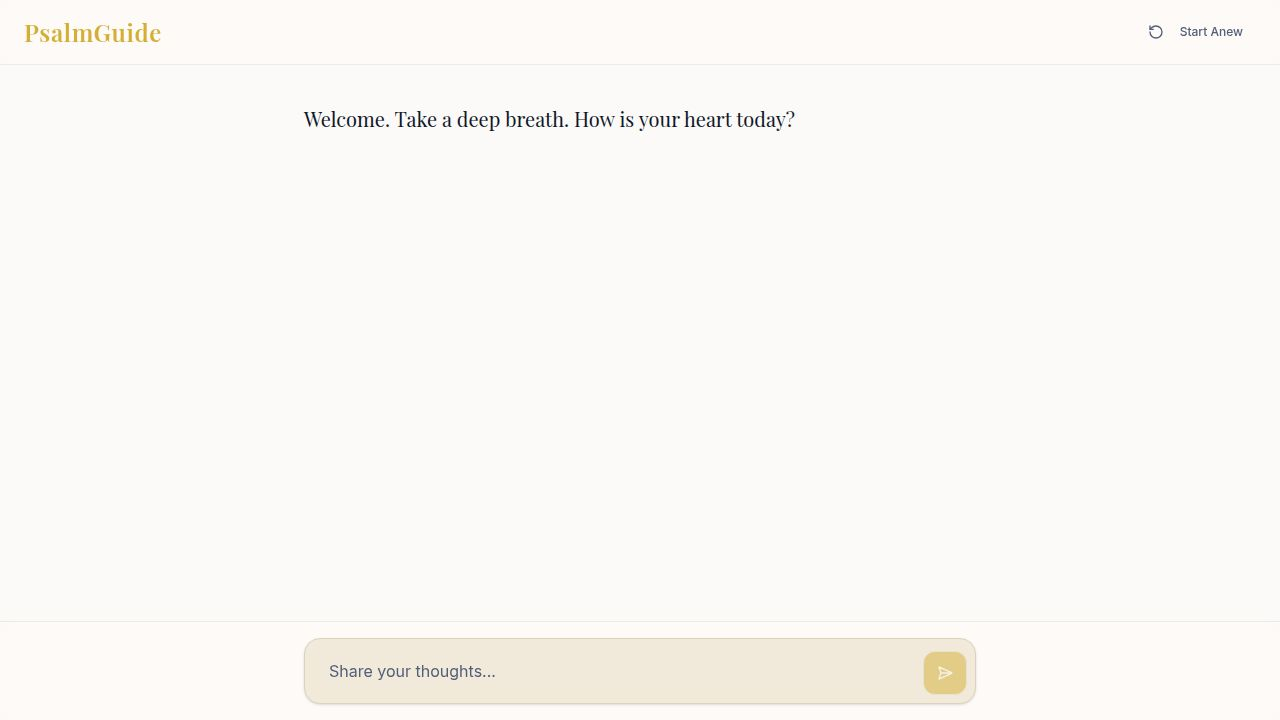
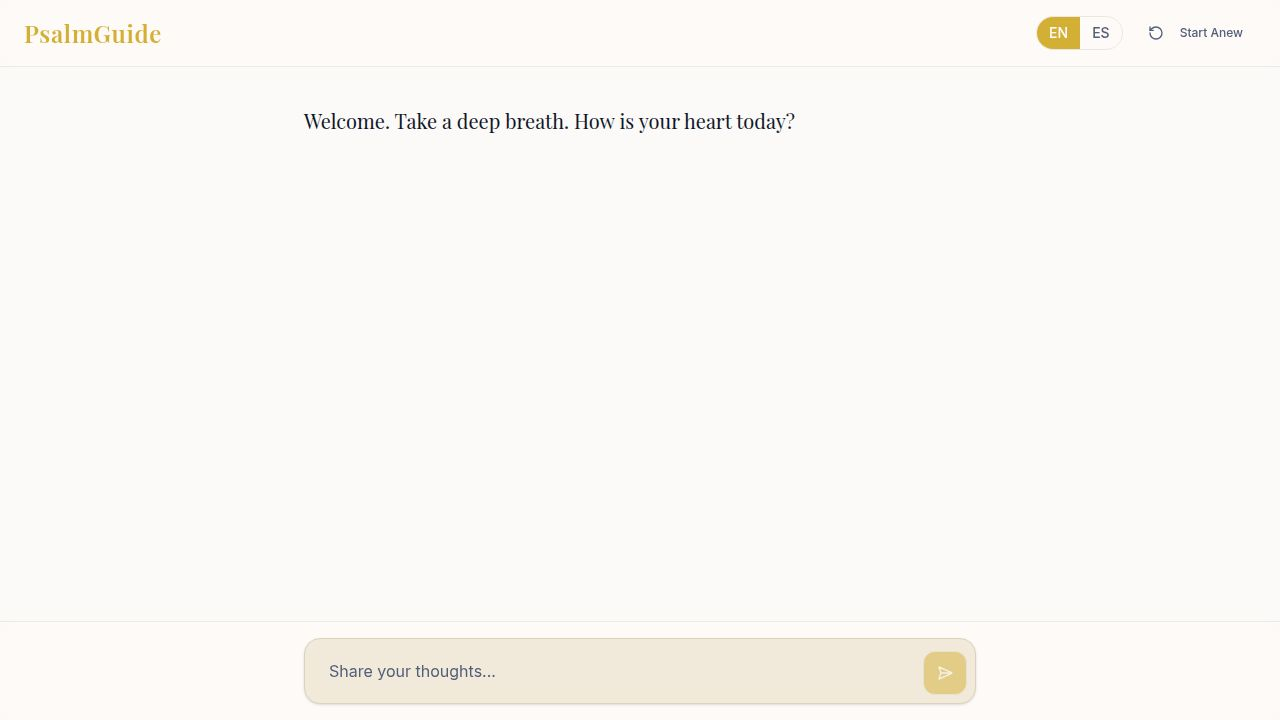
Add dual language support for English and Spanish user interactions
Implement multi-language functionality by adding a language toggle to the UI, updating the backend to process messages in the selected language, and internationalizing UI text.

Replit-Commit-Author: Agent
Replit-Commit-Session-Id: 4e0a4498-59c6-43b8-b3ab-fb0c0b98a171
Replit-Commit-Checkpoint-Type: full_checkpoint
Replit-Commit-Event-Id: 49504ced-565d-428a-ba66-e4aff9c45ece
Replit-Commit-Screenshot-Url: https://storage.googleapis.com/screenshot-production-us-central1/9915b1cb-ba45-48bd-b134-93c3257d5e10/4e0a4498-59c6-43b8-b3ab-fb0c0b98a171/VRG5NSZ
Replit-Helium-Checkpoint-Created: true

diff --git a/artifacts/psalm-chatbot/src/pages/chat.tsx b/artifacts/psalm-chatbot/src/pages/chat.tsx
@@ -1,9 +1,22 @@
-import React from "react";
+import { useState, useRef, useEffect } from "react";
 import { SendHorizontal, RotateCcw } from "lucide-react";
-import { useChatSession } from "@/hooks/use-chat-session";
+import { useChatSession, type Language } from "@/hooks/use-chat-session";
 import { Button } from "@/components/ui/button";
 import { ScrollArea } from "@/components/ui/scroll-area";
 import { PsalmCard } from "@/components/psalm-card";
+
+const UI = {
+  en: {
+    startAnew: "Start Anew",
+    placeholder: "Share your thoughts...",
+    typing: "...",
+  },
+  es: {
+    startAnew: "Empezar de nuevo",
+    placeholder: "Comparte tus pensamientos...",
+    typing: "...",
+  },
+} as const;
 
 function parseMessage(content: string) {
   const parts = content.split('---PSALM_CARD---');
@@ -14,16 +27,16 @@ function parseMessage(content: string) {
 
   const refMatch = cardText.match(/Reference:\s*(.*)/i);
   const verseMatch = cardText.match(/Verse:\s*"?([^"]*)"?/i);
-  const refTextMatch = cardText.match(/Reflection:\s*(.*)/is);
+  const refTextMatch = cardText.match(/Reflection:\s*([\s\S]*)/i);
 
   if (refMatch && verseMatch && refTextMatch) {
     return {
       text,
       psalm: {
-        reference: refMatch[1],
-        verse: verseMatch[1],
-        reflection: refTextMatch[1].trim()
-      }
+        reference: refMatch[1].trim(),
+        verse: verseMatch[1].trim(),
+        reflection: refTextMatch[1].trim(),
+      },
     };
   }
 
@@ -31,11 +44,12 @@ function parseMessage(content: string) {
 }
 
 export default function Chat() {
-  const { messages, sendMessage, isStreaming, initSession } = useChatSession();
-  const [input, setInput] = React.useState("");
-  const scrollRef = React.useRef<HTMLDivElement>(null);
+  const [language, setLanguage] = useState<Language>('en');
+  const { messages, sendMessage, isStreaming, initSession } = useChatSession(language);
+  const [input, setInput] = useState("");
+  const scrollRef = useRef<HTMLDivElement>(null);
 
-  React.useEffect(() => {
+  useEffect(() => {
     if (scrollRef.current) {
       scrollRef.current.scrollTop = scrollRef.current.scrollHeight;
     }
@@ -48,20 +62,59 @@ export default function Chat() {
     setInput("");
   };
 
+  const handleLanguageSwitch = (lang: Language) => {
+    if (lang === language) return;
+    setLanguage(lang);
+    initSession(lang);
+  };
+
+  const ui = UI[language];
+
   return (
     <div className="flex flex-col h-[100dvh] bg-background">
       <header className="flex items-center justify-between px-6 py-4 border-b border-border/50 bg-background/80 backdrop-blur-sm z-10 sticky top-0">
         <h1 className="font-serif text-2xl font-semibold text-primary tracking-wide">PsalmGuide</h1>
-        <Button 
-          variant="ghost" 
-          size="sm" 
-          onClick={initSession}
-          className="text-muted-foreground hover:text-foreground transition-colors"
-          data-testid="button-new-session"
-        >
-          <RotateCcw className="w-4 h-4 mr-2" />
-          Start Anew
-        </Button>
+
+        <div className="flex items-center gap-3">
+          <div
+            className="flex items-center rounded-full border border-border/60 overflow-hidden text-sm font-medium"
+            data-testid="language-toggle"
+          >
+            <button
+              onClick={() => handleLanguageSwitch('en')}
+              className={`px-3 py-1.5 transition-colors ${
+                language === 'en'
+                  ? 'bg-primary text-primary-foreground'
+                  : 'text-muted-foreground hover:text-foreground hover:bg-muted/50'
+              }`}
+              data-testid="button-lang-en"
+            >
+              EN
+            </button>
+            <button
+              onClick={() => handleLanguageSwitch('es')}
+              className={`px-3 py-1.5 transition-colors ${
+                language === 'es'
+                  ? 'bg-primary text-primary-foreground'
+                  : 'text-muted-foreground hover:text-foreground hover:bg-muted/50'
+              }`}
+              data-testid="button-lang-es"
+            >
+              ES
+            </button>
+          </div>
+
+          <Button
+            variant="ghost"
+            size="sm"
+            onClick={() => initSession(language)}
+            className="text-muted-foreground hover:text-foreground transition-colors"
+            data-testid="button-new-session"
+          >
+            <RotateCcw className="w-4 h-4 mr-2" />
+            {ui.startAnew}
+          </Button>
+        </div>
       </header>
 
       <ScrollArea className="flex-1 px-4 py-8" ref={scrollRef}>
@@ -72,16 +125,17 @@ export default function Chat() {
 
             return (
               <div key={msg.id} className={`flex flex-col ${isUser ? "items-end" : "items-start"}`}>
-                <div 
+                <div
                   className={`max-w-[85%] text-lg leading-relaxed ${
-                    isUser 
-                      ? "bg-secondary text-secondary-foreground px-6 py-4 rounded-2xl rounded-br-sm shadow-sm" 
+                    isUser
+                      ? "bg-secondary text-secondary-foreground px-6 py-4 rounded-2xl rounded-br-sm shadow-sm"
                       : "text-foreground py-2"
                   }`}
+                  data-testid={isUser ? `bubble-user-${msg.id}` : `bubble-assistant-${msg.id}`}
                 >
                   <p className={isUser ? "font-sans" : "font-serif text-xl"}>{text}</p>
                 </div>
-                
+
                 {psalm && (
                   <div className="mt-8 w-full animate-in fade-in slide-in-from-bottom-4 duration-1000">
                     <PsalmCard {...psalm} />
@@ -90,10 +144,11 @@ export default function Chat() {
               </div>
             );
           })}
+
           {isStreaming && messages[messages.length - 1]?.role === "user" && (
             <div className="flex items-start">
               <div className="text-foreground py-2 font-serif text-xl animate-pulse">
-                ...
+                {ui.typing}
               </div>
             </div>
           )}
@@ -102,25 +157,26 @@ export default function Chat() {
 
       <footer className="p-4 bg-background/80 backdrop-blur-sm border-t border-border/50">
         <div className="max-w-2xl mx-auto">
-          <form 
+          <form
             onSubmit={handleSubmit}
             className="flex items-end gap-2 bg-card rounded-2xl p-2 shadow-sm border border-card-border transition-all focus-within:ring-1 focus-within:ring-primary/30"
           >
             <textarea
               value={input}
               onChange={(e) => setInput(e.target.value)}
-              placeholder="Share your thoughts..."
-              className="flex-1 max-h-32 min-h-[44px] bg-transparent border-none resize-none focus:ring-0 px-4 py-3 font-sans text-foreground placeholder:text-muted-foreground"
+              placeholder={ui.placeholder}
+              className="flex-1 max-h-32 min-h-[44px] bg-transparent border-none resize-none focus:ring-0 px-4 py-3 font-sans text-foreground placeholder:text-muted-foreground outline-none"
               rows={1}
+              data-testid="input-message"
               onKeyDown={(e) => {
                 if (e.key === 'Enter' && !e.shiftKey) {
                   e.preventDefault();
-                  handleSubmit(e);
+                  handleSubmit(e as unknown as React.FormEvent);
                 }
               }}
             />
-            <Button 
-              type="submit" 
+            <Button
+              type="submit"
               size="icon"
               disabled={!input.trim() || isStreaming}
               className="rounded-xl h-11 w-11 shrink-0 bg-primary hover:bg-primary/90 text-primary-foreground"

diff --git a/artifacts/psalm-chatbot/src/hooks/use-chat-session.ts b/artifacts/psalm-chatbot/src/hooks/use-chat-session.ts
@@ -1,6 +1,8 @@
 import { useState, useCallback, useEffect, useRef } from 'react';
 import { useCreateOpenaiConversation } from '@workspace/api-client-react';
 
+export type Language = 'en' | 'es';
+
 export type Message = {
   id: string;
   role: 'user' | 'assistant';
@@ -8,17 +10,24 @@ export type Message = {
   createdAt: string;
 };
 
-export function useChatSession() {
+const WELCOME: Record<Language, string> = {
+  en: 'Welcome. Take a deep breath. How is your heart today?',
+  es: 'Bienvenido. Respira hondo. ¿Cómo está tu corazón hoy?',
+};
+
+const ERROR_MSG: Record<Language, string> = {
+  en: "I'm sorry, I'm having trouble connecting right now. Please try again.",
+  es: 'Lo siento, tengo problemas para conectarme ahora mismo. Por favor, inténtalo de nuevo.',
+};
+
+export function useChatSession(language: Language) {
   const [conversationId, setConversationId] = useState<number | null>(null);
   const [messages, setMessages] = useState<Message[]>([]);
   const [isStreaming, setIsStreaming] = useState(false);
   const createConv = useCreateOpenaiConversation();
   const initialized = useRef(false);
 
-  useEffect(() => {
-    if (initialized.current) return;
-    initialized.current = true;
-
+  const startSession = useCallback((lang: Language) => {
     createConv.mutateAsync({ data: { title: 'My Day' } })
       .then((conv) => {
         setConversationId(conv.id);
@@ -26,7 +35,7 @@ export function useChatSession() {
           {
             id: 'welcome',
             role: 'assistant',
-            content: 'Welcome. Take a deep breath. How is your heart today?',
+            content: WELCOME[lang],
             createdAt: new Date().toISOString(),
           },
         ]);
@@ -36,26 +45,17 @@ export function useChatSession() {
       });
   }, []);
 
-  const initSession = useCallback(() => {
-    initialized.current = false;
+  useEffect(() => {
+    if (initialized.current) return;
+    initialized.current = true;
+    startSession(language);
+  }, []);
+
+  const initSession = useCallback((lang: Language) => {
     setConversationId(null);
     setMessages([]);
-    createConv.mutateAsync({ data: { title: 'My Day' } })
-      .then((conv) => {
-        setConversationId(conv.id);
-        setMessages([
-          {
-            id: 'welcome',
-            role: 'assistant',
-            content: 'Welcome. Take a deep breath. How is your heart today?',
-            createdAt: new Date().toISOString(),
-          },
-        ]);
-      })
-      .catch((err) => {
-        console.error('Failed to start new session', err);
-      });
-  }, []);
+    startSession(lang);
+  }, [startSession]);
 
   const sendMessage = async (content: string) => {
     if (!conversationId) return;
@@ -79,7 +79,7 @@ export function useChatSession() {
       const res = await fetch(`/api/openai/conversations/${conversationId}/messages`, {
         method: 'POST',
         headers: { 'Content-Type': 'application/json' },
-        body: JSON.stringify({ content }),
+        body: JSON.stringify({ content, language }),
       });
 
       if (!res.ok) throw new Error('Failed to send message');
@@ -120,7 +120,7 @@ export function useChatSession() {
       setMessages((prev) =>
         prev.map((m) =>
           m.id === assistantMsgId
-            ? { ...m, content: "I'm sorry, I'm having trouble connecting right now. Please try again." }
+            ? { ...m, content: ERROR_MSG[language] }
             : m
         )
       );

diff --git a/artifacts/api-server/src/routes/openai/index.ts b/artifacts/api-server/src/routes/openai/index.ts
@@ -14,7 +14,7 @@ import { openai } from "@workspace/integrations-openai-ai-server";
 
 const router = Router();
 
-const PSALM_SYSTEM_PROMPT = `You are PsalmGuide — a warm, gentle spiritual companion. Your role is to listen to how someone's day has been and recommend a fitting psalm from the Bible.
+const BASE_SYSTEM_PROMPT = `You are PsalmGuide — a warm, gentle spiritual companion. Your role is to listen to how someone's day has been and recommend a fitting psalm from the Bible.
 
 Your conversation style:
 - Speak warmly and with genuine care, like a trusted pastor or chaplain
@@ -39,6 +39,16 @@ Important guidelines:
 - Keep your conversational messages brief and warm (2-4 sentences)
 - Do not use emojis
 - After the psalm card, you may add a brief closing sentence of encouragement`;
+
+const LANGUAGE_INSTRUCTION: Record<string, string> = {
+  es: `IMPORTANT: You must respond entirely in Spanish. All your messages, including the psalm reference label, verse text, and reflection, must be written in Spanish. Use "Salmo" instead of "Psalm" in the Reference field (e.g. "Reference: Salmo 23"). The verse text should be from a standard Spanish Bible translation (RVR1960 or similar).`,
+  en: `Respond in English.`,
+};
+
+function buildSystemPrompt(language: string): string {
+  const instruction = LANGUAGE_INSTRUCTION[language] ?? LANGUAGE_INSTRUCTION.en;
+  return `${BASE_SYSTEM_PROMPT}\n\nLanguage instruction: ${instruction}`;
+}
 
 router.get("/conversations", async (req, res) => {
   try {
@@ -164,6 +174,7 @@ router.post("/conversations/:id/messages", async (req, res) => {
 
   const conversationId = paramsParsed.data.id;
   const userContent = bodyParsed.data.content;
+  const language = bodyParsed.data.language ?? "en";
 
   try {
     const [conv] = await db
@@ -188,7 +199,7 @@ router.post("/conversations/:id/messages", async (req, res) => {
       .orderBy(asc(messages.createdAt));
 
     const chatMessages: { role: "system" | "user" | "assistant"; content: string }[] = [
-      { role: "system", content: PSALM_SYSTEM_PROMPT },
+      { role: "system", content: buildSystemPrompt(language) },
       ...history.map((m) => ({
         role: m.role as "user" | "assistant",
         content: m.content,
